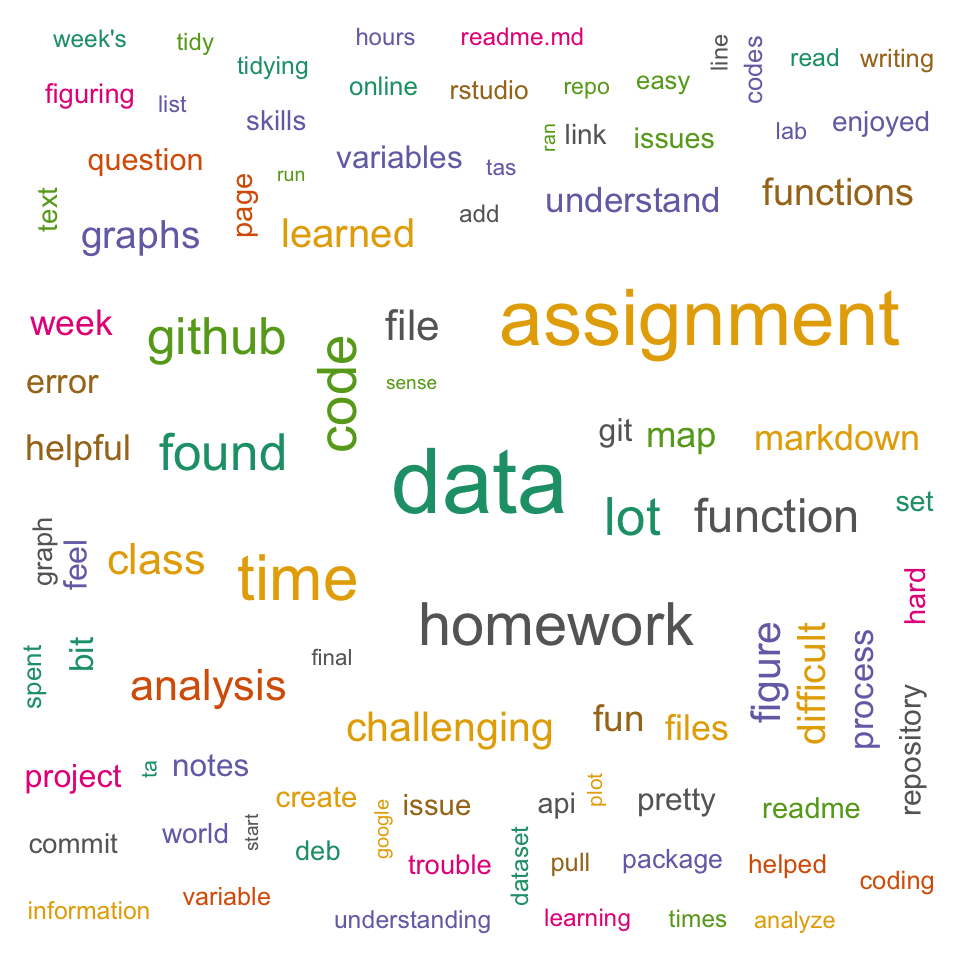
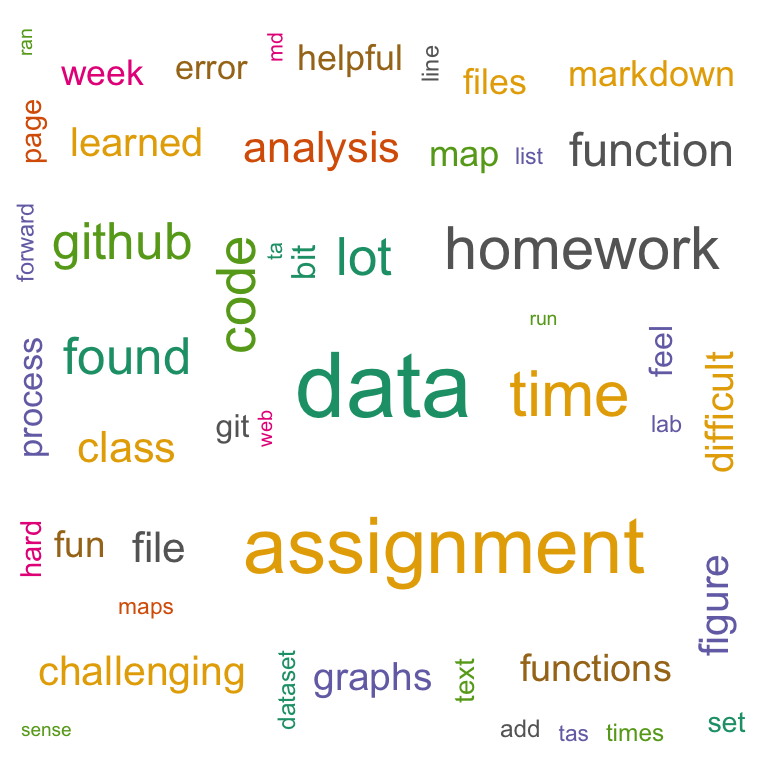
Fix front-page rendering issues, replace wordcloud with map generated in geoviz week

diff --git a/content/home/about-course.html b/content/home/about-course.html
@@ -22,34 +22,39 @@ output:
 <div id="macs-30500---computing-for-the-social-sciences" class="section level1">
 <h1>MACS 30500<a href="#fn1" class="footnote-ref" id="fnref1"><sup>1</sup></a> - Computing for the Social Sciences</h1>
 <div class="row">
-<div class="col-sm-7.5 col-xs-12">
+<div class="col-sm-7 col-xs-12">
 <ul>
-<li><p>Instructor: <a href="http://www.bensoltoff.com">Benjamin Soltoff</a></p></li>
-<li><p>Teaching Assistants</p>
+<li>Instructor: <a href="http://www.bensoltoff.com">Benjamin Soltoff</a></li>
+<li>Teaching Assistants
 <ul>
 <li>Wanitchaya (Mint) Poonpatanapricha</li>
 <li>Ruben Rodriguez</li>
 <li>Xiaogao Zhou</li>
 </ul></li>
-<li><p>Meeting day/time: TuTh 12:30-1:50 (Stuart Hall 104)</p></li>
-<li><p>Online course discussion: <a href="https://github.com/uc-cfss/Discussion">GitHub discussion repo</a></p></li>
-<li><p>Open lab sessions</p>
+<li>Meeting day/time: TuTh 12:30-1:50 (Stuart Hall 104)</li>
+<li>Online course discussion: <a href="https://github.com/uc-cfss/Discussion">GitHub discussion repo</a></li>
+<li>Open lab sessions
 <ul>
 <li>Th 2-3:20pm (Kent Chem Lab 102)</li>
 <li>F 1:30-2:50pm (Saieh Hall of Economics 103)</li>
 </ul></li>
-<li><p>Office hours:</p>
+<li>Office hours:
 <ul>
+<li>Mint: M 9-11am (Regenstein Library)</li>
 <li>Benjamin: M 1:30-3:30pm (McGiffert House 209)</li>
-<li>TBD: Tu 10-12pm (Location TBD)</li>
+<li>Ruben: Tu 10-12pm (Location TBD)</li>
 </ul></li>
-<li><p>Prerequisites: None</p></li>
-<li><p>Requirements: Bring your own laptop</p>
-</div>
-<div class="col-sm-4.5 col-xs-12">
-</li>
+<li>Prerequisites: None</li>
+<li>Requirements: Bring your own laptop</li>
 </ul>
-<p><img src="/home/about-course_files/figure-html/pr-wordcloud-1.png" width="480" /></p>
+</div>
+<div class="col-sm-5 col-xs-12">
+<div class="figure"><span id="fig:income-cook-map-viridis"></span>
+<img src="/home/about-course_files/figure-html/income-cook-map-viridis-1.png" alt="Example of student work using `sf`, `tidycensus`, and `ggplot2`" width="480" />
+<p class="caption">
+Figure 1: Example of student work using <code>sf</code>, <code>tidycensus</code>, and <code>ggplot2</code>
+</p>
+</div>
 </div>
 </div>
 <div id="course-description" class="section level2">
